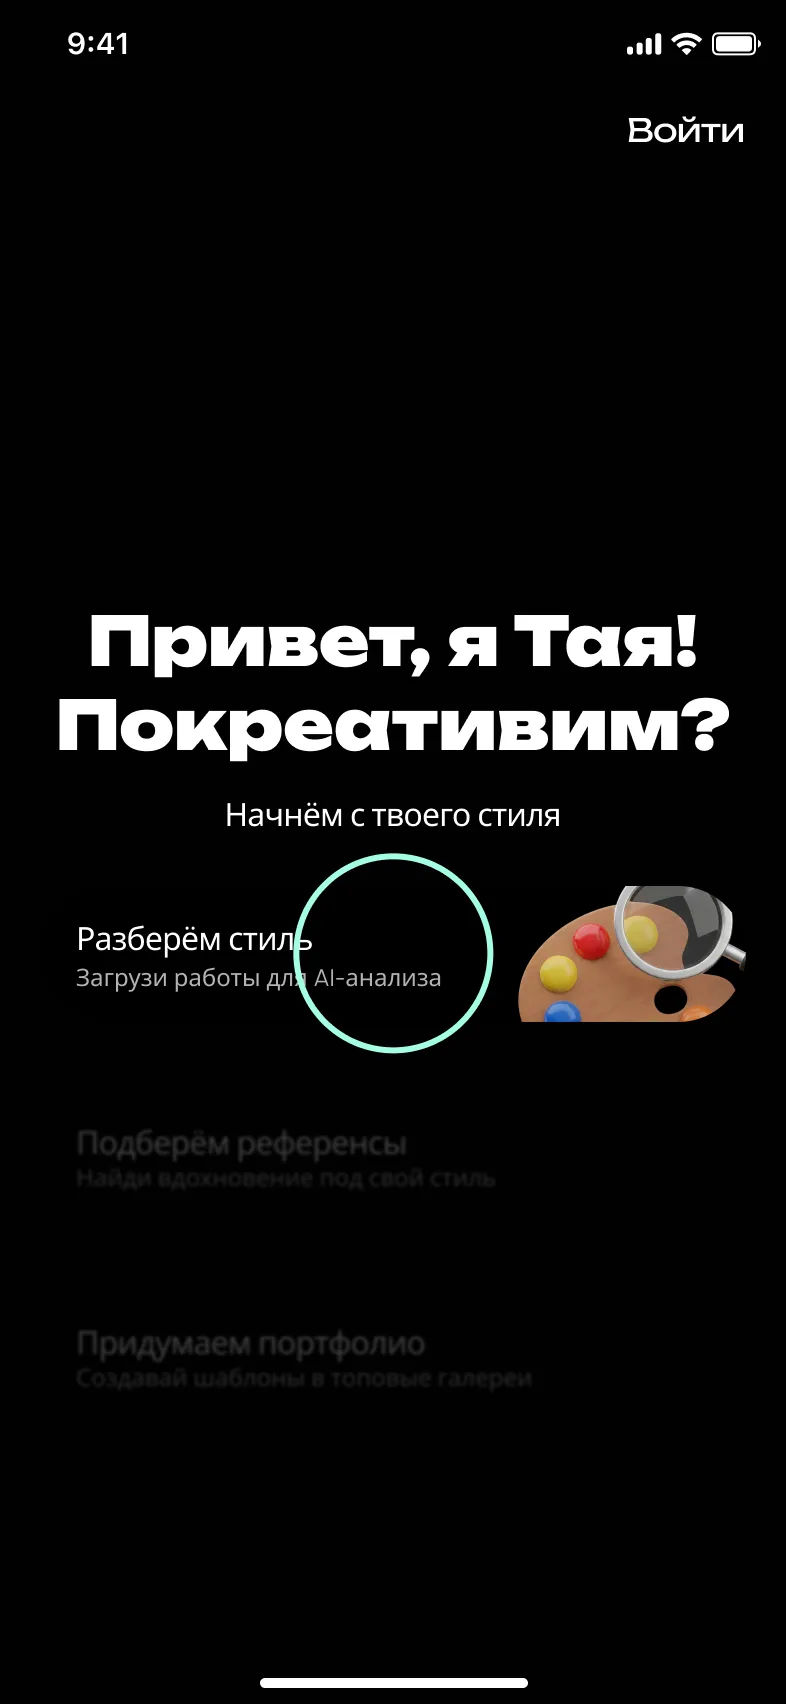
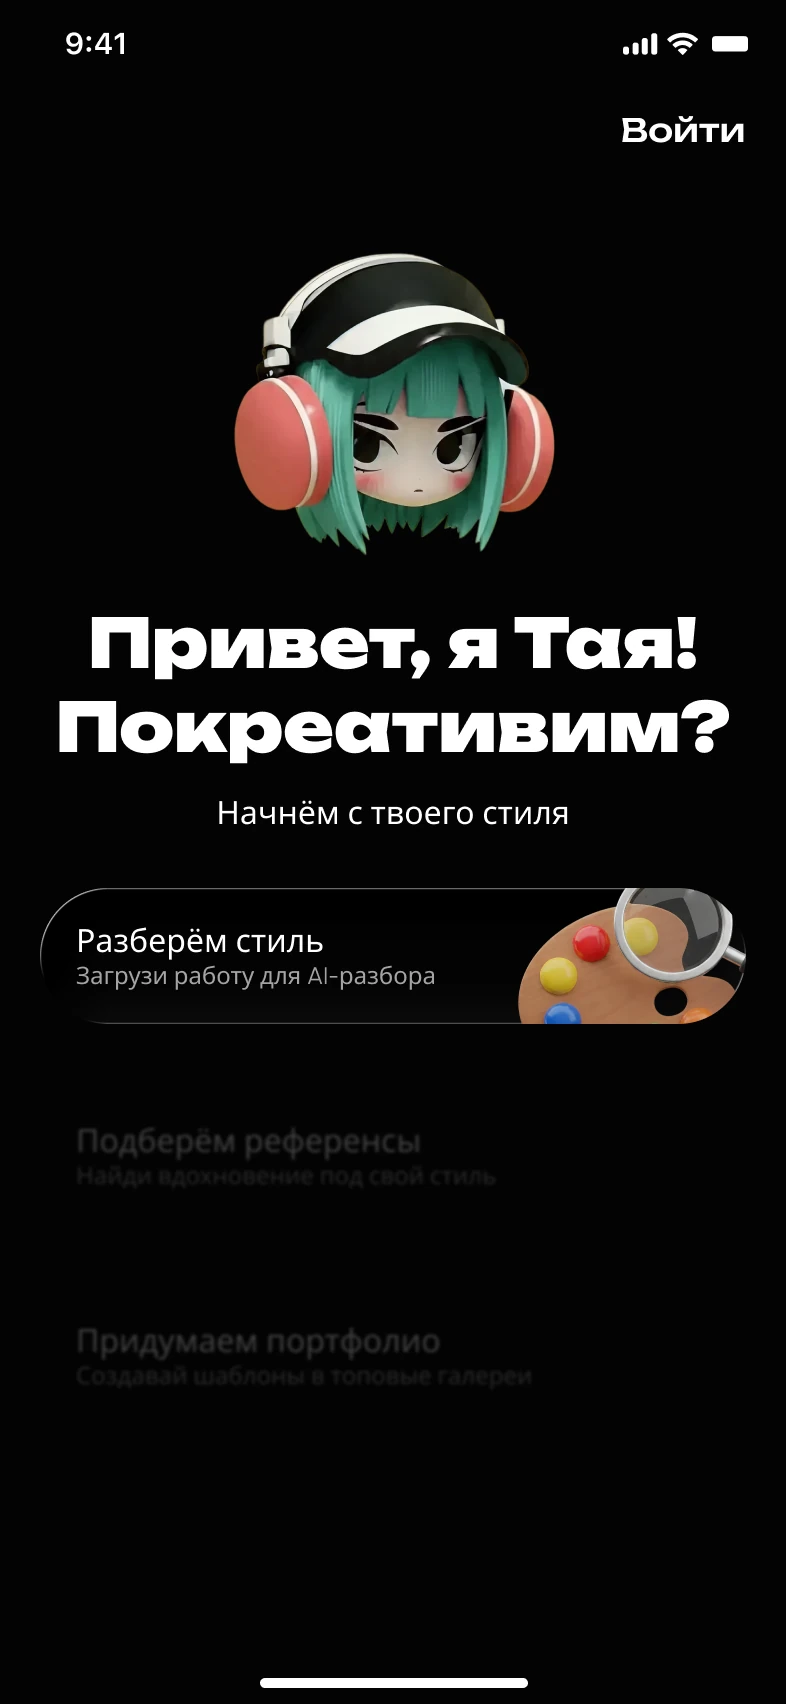
Swap the TAYA start screen for the Figma version
The start screen now matches Figma node 1:819: Taya's portrait on top,
the sign-in link and the palette on the first option.

The screen-number rule also caught the line-break span inside captions,
turning it into a block with a 24px margin, so captions 01 and 03 had
a hole in them. It now targets the number only.

diff --git a/taya.html b/taya.html
@@ -24,7 +24,7 @@
   <link rel="stylesheet" href="styles.css?v=case-enter-1" />
   <link rel="stylesheet" href="ai-producer.css?v=kit-outline-1" />
   <link rel="stylesheet" href="bottom-nav.css?v=top-glass-2" />
-  <link rel="stylesheet" href="taya.css?v=sandbox-1" />
+  <link rel="stylesheet" href="taya.css?v=start-2" />
 </head>
 <body class="case-body ai-producer-body taya-body" id="top">
   <nav class="mobile-case-return" aria-label="Возврат к портфолио"><a href="index.html">← На&nbsp;главную</a></nav>

diff --git a/taya.css b/taya.css
@@ -148,7 +148,7 @@
   background: #000;
 }
 
-.taya-screens span {
+.taya-screens li > span {
   display: block;
   margin-top: 24px;
   color: var(--color-text-muted);
@@ -398,7 +398,7 @@
     scroll-snap-align: start;
   }
 
-  .taya-screens span {
+  .taya-screens li > span {
     margin-top: 16px;
   }
 
